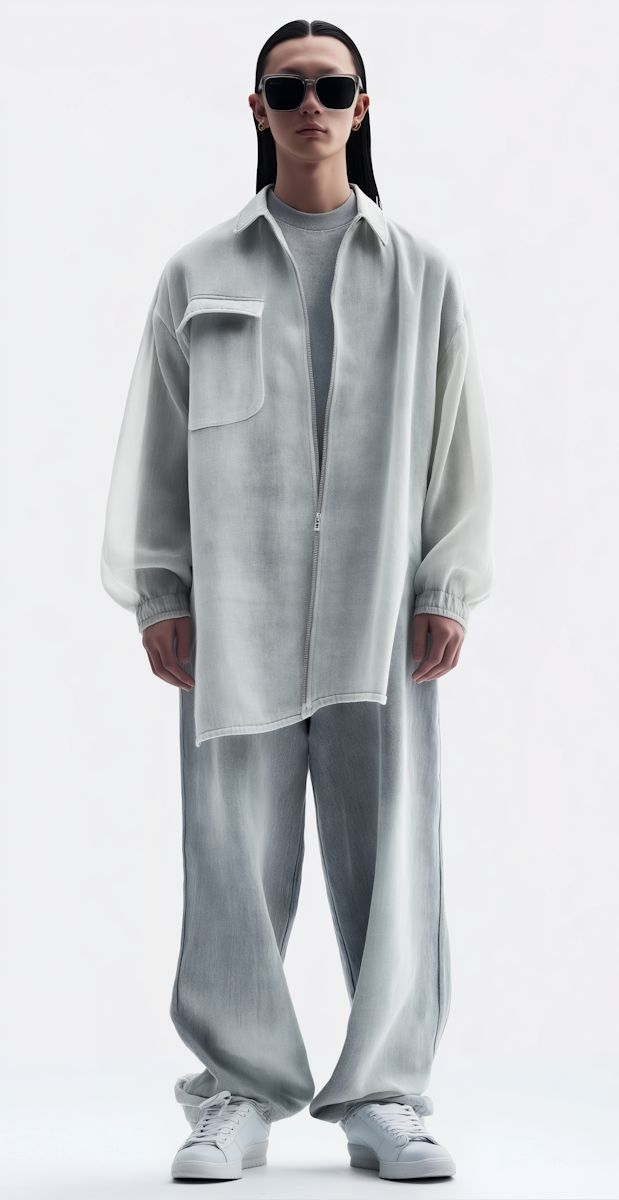
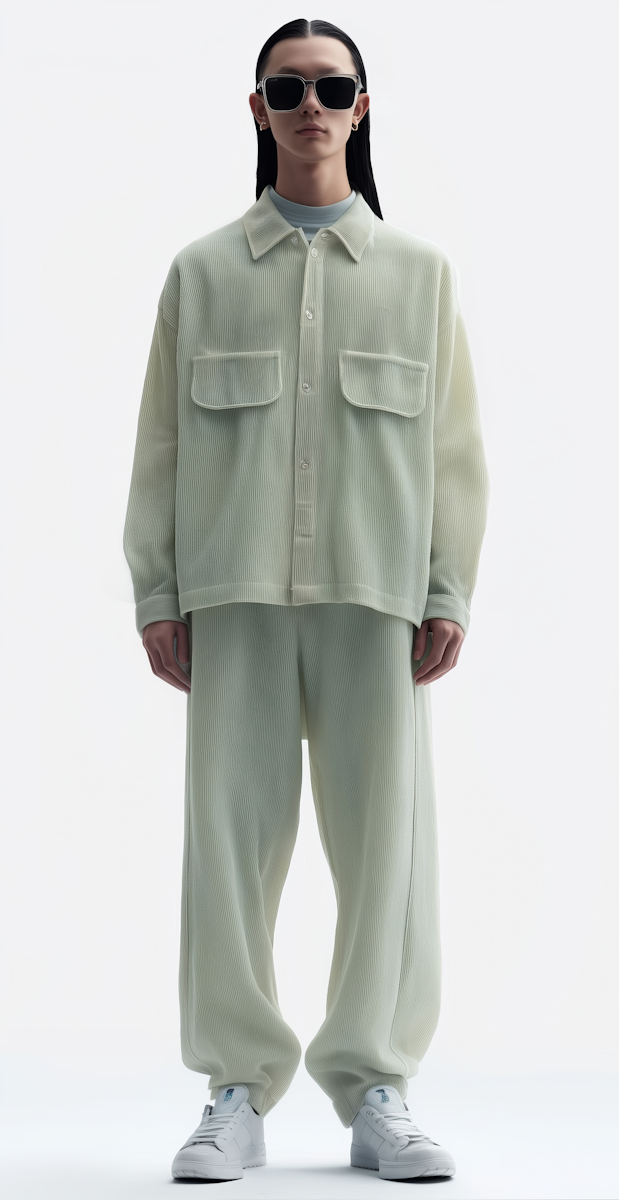
change catalog images

Changed region(s): [[0.1535, 0.0617, 0.7981, 0.9867], [0.399, 0.0308, 0.5218, 0.1233], [0.4911, 0.0, 0.5218, 0.0308]]

diff --git a/src/components/window_content/Catalogue.jsx b/src/components/window_content/Catalogue.jsx
@@ -1,6 +1,15 @@
 import Image from "next/image";
 import { useState, useEffect } from "react";
-const images = ["/catalogue/1.png", "/catalogue/2.png", "/catalogue/3.png","/catalogue/4.png","/catalogue/5.png","/catalogue/6.png"];
+const images = [
+  "/catalogue/1.png",
+  "/catalogue/2.png",
+  "/catalogue/3.png",
+  "/catalogue/4.png",
+  "/catalogue/5.png",
+  "/catalogue/6.png",
+  "/catalogue/7.png",
+  "/catalogue/8.png",
+];
 export default function Catalogue({ registerNavigation }) {
   const [index, setIndex] = useState(0);
   const previous = () => {

diff --git a/src/components/window_content/Video.jsx b/src/components/window_content/Video.jsx
@@ -28,7 +28,7 @@ export default function Video() {
         className="absolute inset-0 w-full h-full object-cover"
         /* controls={isPlaying} */
         playsInline
-        preload
+        preload="true"
         onPlay={() => setIsPlaying(true)}
         onPause={() => setIsPlaying(false)}
         onEnded={() => setIsPlaying(false)}
